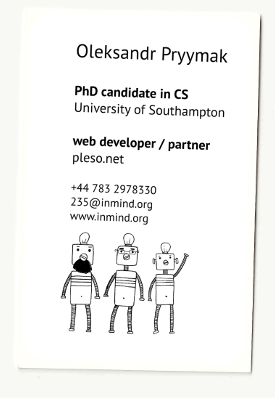
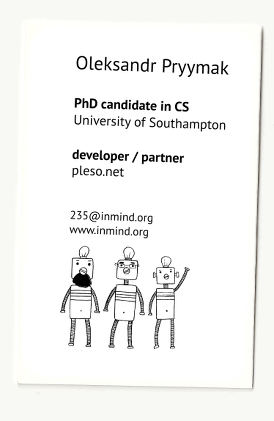
img update

diff --git a/index.html b/index.html
@@ -32,14 +32,14 @@
 	</head>
 	<body>
     <div class="container">
-      <img src="/media/imgs/opryymak.png" width="275" height="398" border="0" />
+      <img src="/media/imgs/opryymak.png" width="274" height="421" border="0" />
       
-      <img src="/media/imgs/bcard.png" width="275" height="398" border="0" usemap="#map" />
+      <img src="/media/imgs/bcard.png" width="274" height="421" border="0" usemap="#map" />
       <map name="map">
-        <area shape="rect" coords="71,38,234,67" alt="LinkedIn profile: Oleksandr Pryymak" href="http://www.linkedin.com/in/opryymak" />
-        <area shape="rect" coords="70,83,231,122" alt="My home page: University of Southampton" href="http://users.ecs.soton.ac.uk/op08r/" />
-        <area shape="rect" coords="67,130,214,170" alt="My team: pleso.net" href="http://www.pleso.net/" />
-        <area shape="rect" coords="65,190,164,215" id="email" />
+        <area shape="rect" coords="71,50,234,79" alt="LinkedIn profile: Oleksandr Pryymak" href="http://www.linkedin.com/in/opryymak" />
+        <area shape="rect" coords="69,93,230,132" alt="My home page: University of Southampton" href="http://users.ecs.soton.ac.uk/op08r/" />
+        <area shape="rect" coords="68,145,195,181" alt="My team: pleso.net" href="http://www.pleso.net/" />
+        <area shape="rect" coords="65,210,164,235" id="email" />
       </map>
 
 			<div class="clear">&nbsp;</div>
